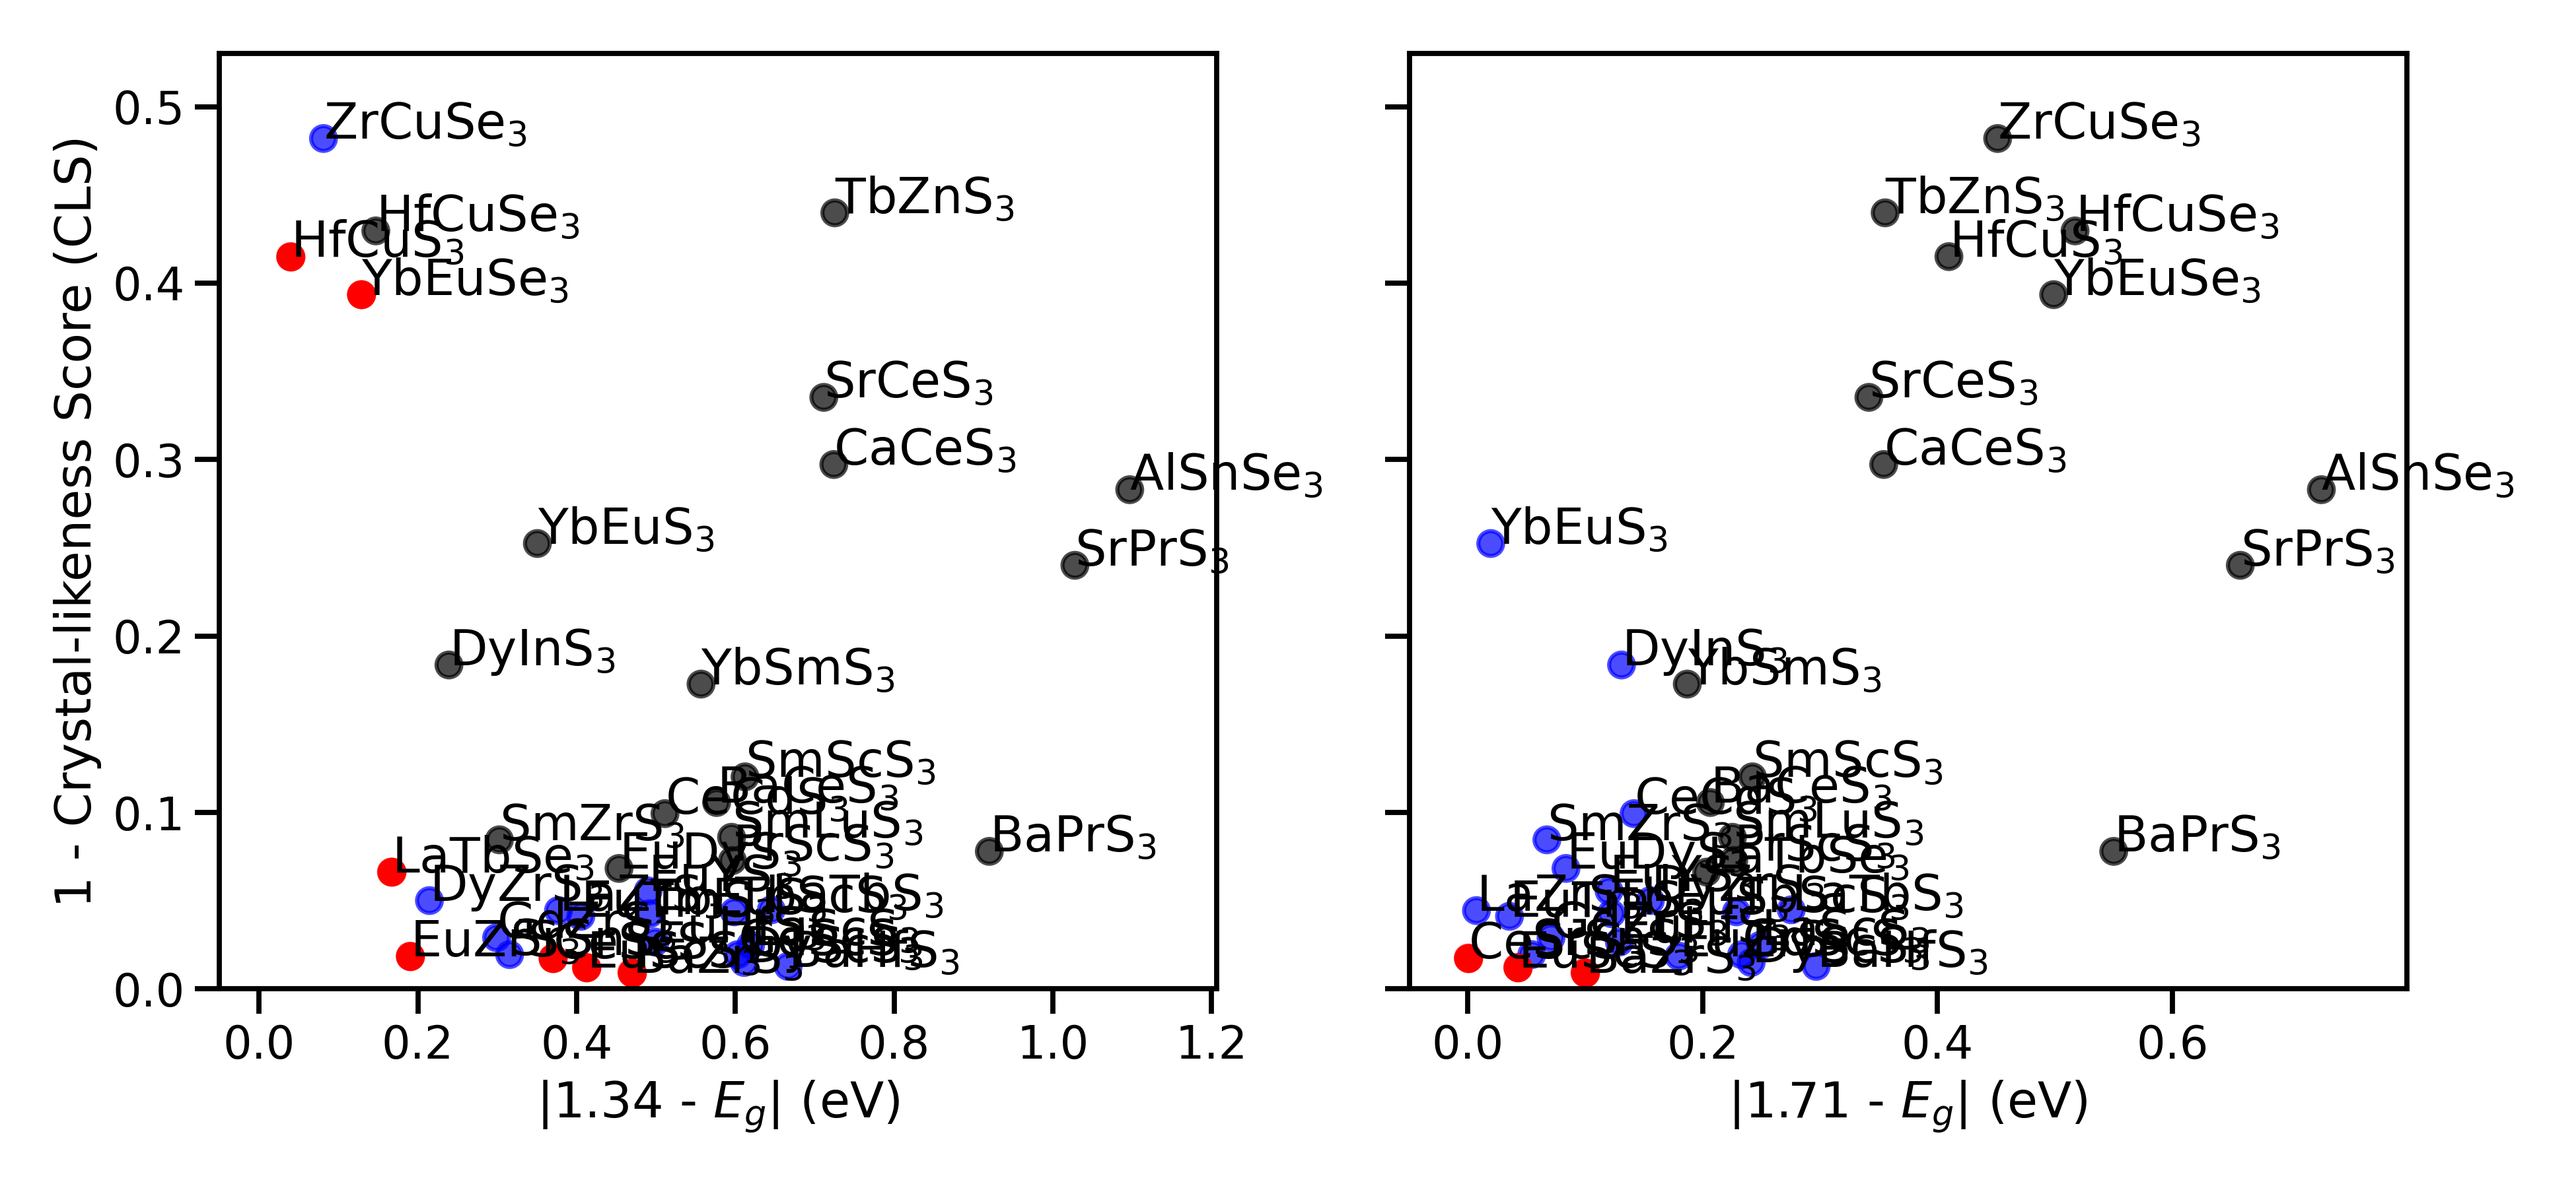
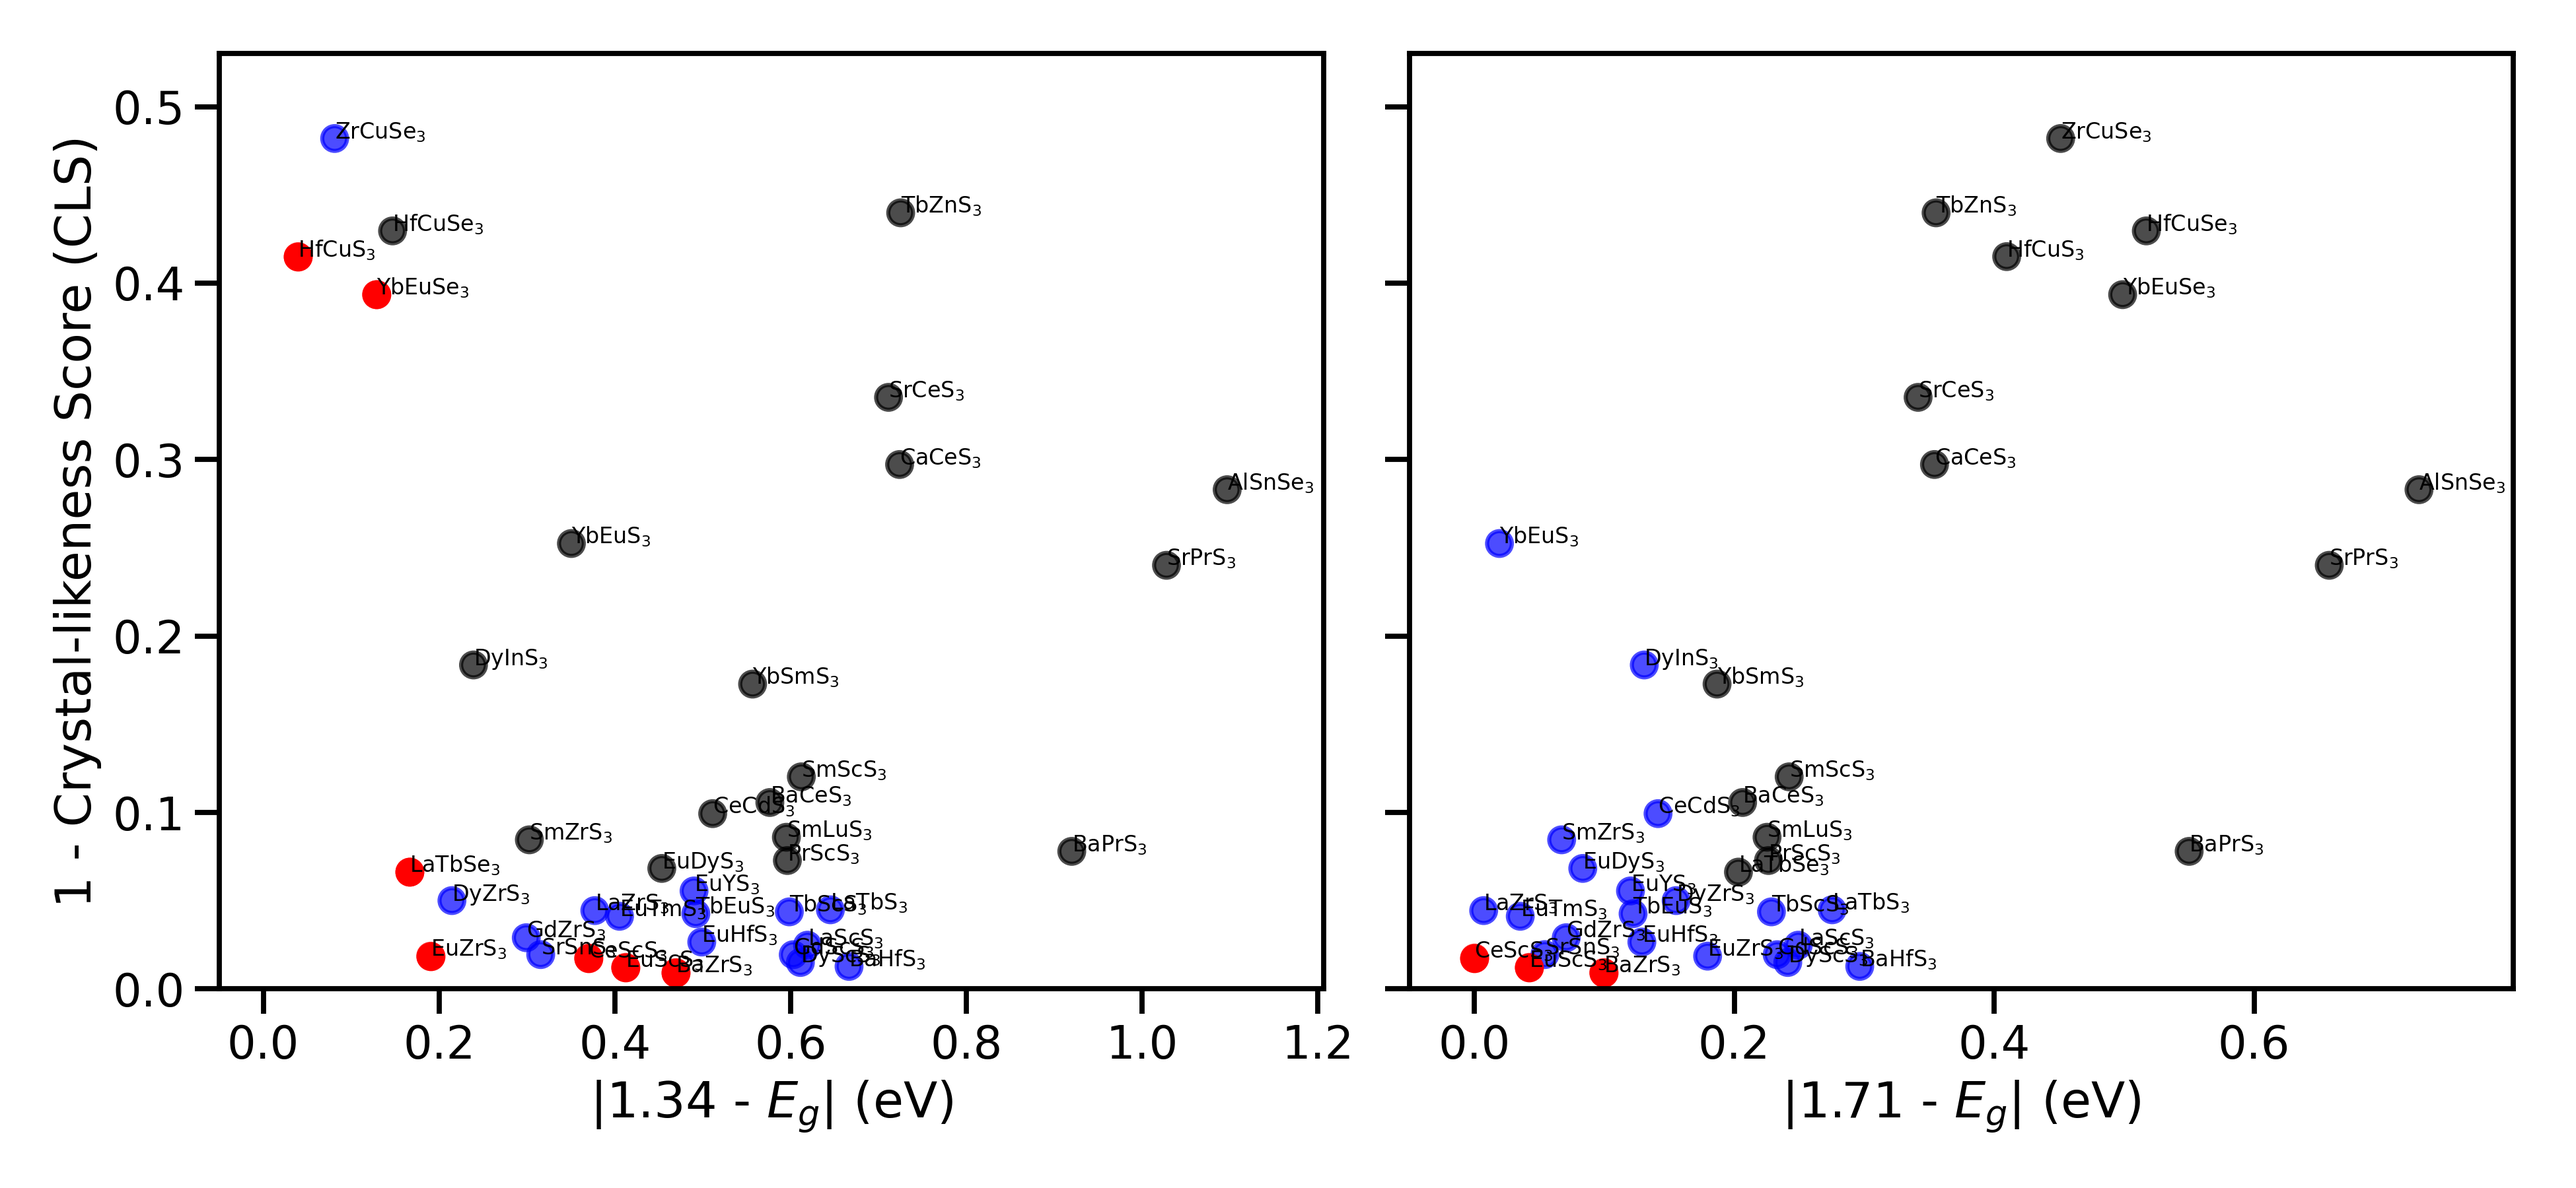
fix figures pareto front

diff --git a/tf_chpvk_pv/plots.py b/tf_chpvk_pv/plots.py
@@ -770,7 +770,7 @@ def pareto_front_plot(df, variable, Eg_ref=1.34,
     
     if plot_names:
         for _, row in df.iterrows():
-            ax.text(row["Eg_dev"], row[variable], row["formula"].replace("3", "$_3$"))
+            ax.text(row["Eg_dev"], row[variable], row["formula"].replace("3", "$_3$"), fontdict={'fontsize':8})
     
     variable_title = {'HHI': 'Herfindahl-Hirschman Index (HHI)',
                        'SR': 'Supply Risk (SR)',
@@ -848,6 +848,8 @@ def plot_pareto_3fronts(df, print_tables=False, plot_names=False, FIGURES_DIR=FI
     ax.set_ylabel("Supply Risk (SR)")
 
     if plot_names:
+        for _, row in df_.iterrows():
+            ax.text(row["CL score"], row["SR"], row["formula"].replace("3", "$_3$"), fontdict={'fontsize':8})
         for _, row in df_pareto_SJ.iterrows():
             ax.text(row["CL score"], row["SR"], row["formula"].replace("3", "$_3$"))
         for _, row in df_pareto_T.iterrows():
